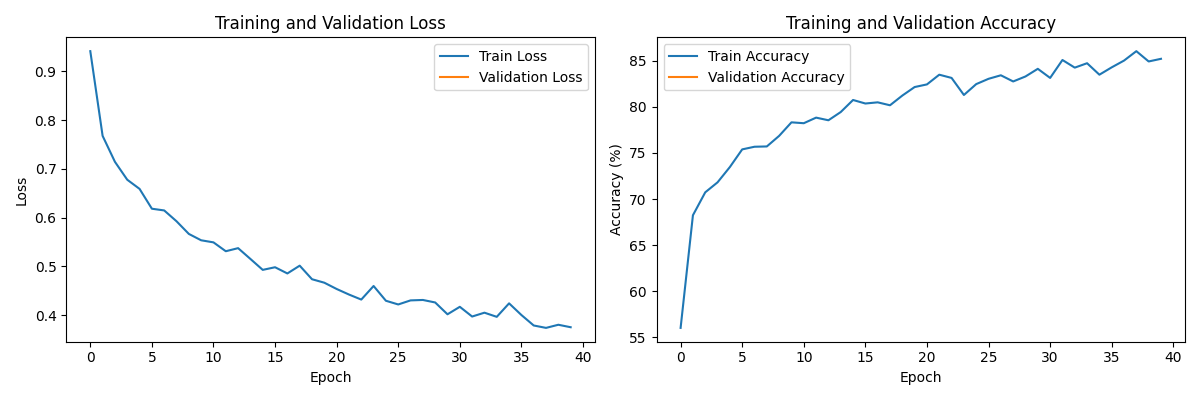
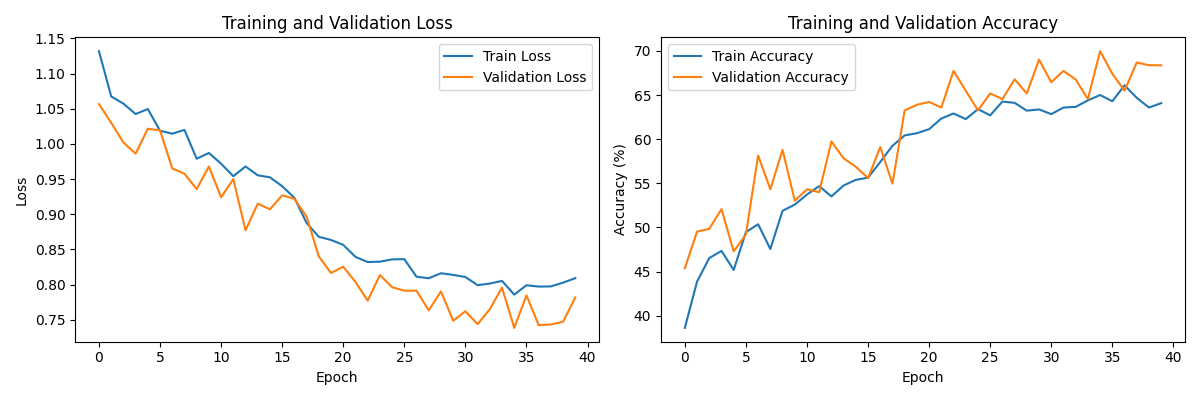
LR sceduler added
LRS added which has helped with over fitting a little, also re-added a validation set

diff --git a/code/fruit_class.py b/code/fruit_class.py
@@ -127,44 +127,71 @@ class FruitDataset(Dataset):
 
         return image, label  # Return image and label pair
 
-# Function to train the model (no validation)
-def train_model(model, train_loader, criterion, optimizer, num_epochs, device):
-    train_losses = []  # To store training loss for each epoch
-    train_accuracies = []  # To store training accuracy for each epoch
-    
+# Function to train the model
+def train_model(model, train_loader, val_loader, criterion, optimizer, scheduler, num_epochs, device):
+    train_losses = []
+    val_losses = []  # To store validation losses
+    train_accuracies = []
+    val_accuracies = []  # To store validation accuracies
+
     for epoch in range(num_epochs):
         # Training phase
-        model.train()  # Set model to training mode
+        model.train()
         train_loss = 0.0
         train_correct = 0
         train_total = 0
-        
+
         for images, labels in train_loader:
-            images, labels = images.to(device), labels.to(device)  # Move data to the GPU if available
-            
-            optimizer.zero_grad()  # Clear the previous gradients
-            outputs = model(images)  # Forward pass
-            loss = criterion(outputs, labels)  # Compute the loss
-            loss.backward()  # Backward pass to compute gradients
-            optimizer.step()  # Update model parameters
-            
-            train_loss += loss.item()  # Accumulate training loss
-            _, predicted = torch.max(outputs.data, 1)  # Get predicted class
-            train_total += labels.size(0)  # Total number of samples
-            train_correct += (predicted == labels).sum().item()  # Count correct predictions
-        
-        # Compute average training loss and accuracy for the epoch
-        train_loss = train_loss / len(train_loader)  # Average training loss
-        train_accuracy = 100 * train_correct / train_total  # Training accuracy as a percentage
+            images, labels = images.to(device), labels.to(device)
+
+            optimizer.zero_grad()
+            outputs = model(images)
+            loss = criterion(outputs, labels)
+            loss.backward()
+            optimizer.step()
+
+            train_loss += loss.item()
+            _, predicted = torch.max(outputs.data, 1)
+            train_total += labels.size(0)
+            train_correct += (predicted == labels).sum().item()
+
+        train_loss /= len(train_loader)
+        train_accuracy = 100 * train_correct / train_total
         train_losses.append(train_loss)
         train_accuracies.append(train_accuracy)
-        
+
+        # Validation phase
+        model.eval()
+        val_loss = 0.0
+        val_correct = 0
+        val_total = 0
+
+        with torch.no_grad():
+            for images, labels in val_loader:
+                images, labels = images.to(device), labels.to(device)
+                outputs = model(images)
+                loss = criterion(outputs, labels)
+
+                val_loss += loss.item()
+                _, predicted = torch.max(outputs.data, 1)
+                val_total += labels.size(0)
+                val_correct += (predicted == labels).sum().item()
+
+        val_loss /= len(val_loader)
+        val_accuracy = 100 * val_correct / val_total
+        val_losses.append(val_loss)
+        val_accuracies.append(val_accuracy)
+
+        # Call the learning rate scheduler
+        scheduler.step(val_loss)  # Scheduler adjusts learning rate based on validation loss
+
         # Print progress for each epoch
         print(f'Epoch [{epoch+1}/{num_epochs}]')
         print(f'Train Loss: {train_loss:.4f}, Train Accuracy: {train_accuracy:.2f}%')
+        print(f'Validation Loss: {val_loss:.4f}, Validation Accuracy: {val_accuracy:.2f}%')
         print('-' * 50)
-    
-    return train_losses, train_accuracies
+
+    return train_losses, val_losses, train_accuracies, val_accuracies
 
 
 # Evaluate the trained model on test data and generate performance metrics

diff --git a/code/train.py b/code/train.py
@@ -5,6 +5,8 @@ from torch.utils.data import DataLoader
 import os
 import torchvision.transforms as transforms
 from fruit_class import FruitClassifierCNN, FruitDataset, plot_training_history, train_model
+from torch.utils.data import random_split
+from torch.optim.lr_scheduler import ReduceLROnPlateau  # Import the scheduler
 
 def main():
     # Hyperparameters
@@ -12,6 +14,7 @@ def main():
     num_epochs = 40  # Number of training epochs
     batch_size = 32  # Batch size for training
     learning_rate = 0.001  # Learning rate for optimizer
+    val_split = 0.1  # Use 10% of the data for validation
 
     # GPU Setup
     if torch.cuda.is_available():
@@ -32,26 +35,35 @@ def main():
         transforms.Normalize((0.5, 0.5, 0.5), (0.5, 0.5, 0.5))  # Normalize RGB channels
     ])
 
-    # Load the full training dataset (no splitting)
-    train_data_path = os.path.join('..', 'split_data/train_data')  # Root directory for training dataset
-    train_dataset = FruitDataset(root_dir=train_data_path, transform=transform)
+    # Load the full dataset
+    train_data_path = os.path.join('..', 'split_data/train_data')  # Root directory for dataset
+    full_dataset = FruitDataset(root_dir=train_data_path, transform=transform)
 
-    # Create DataLoader for the entire training dataset
+    # Split dataset into training and validation sets
+    val_size = int(val_split * len(full_dataset))
+    train_size = len(full_dataset) - val_size
+    train_dataset, val_dataset = torch.utils.data.random_split(full_dataset, [train_size, val_size])
+
+    # Create DataLoader for training and validation sets
     train_loader = DataLoader(train_dataset, batch_size=batch_size, shuffle=True, num_workers=4, pin_memory=True)
+    val_loader = DataLoader(val_dataset, batch_size=batch_size, shuffle=False, num_workers=4, pin_memory=True)
 
     # Initialize model, loss function, and optimizer
     model = FruitClassifierCNN(num_classes=num_classes).to(device)
     criterion = nn.CrossEntropyLoss()
     optimizer = optim.Adam(model.parameters(), lr=learning_rate)
 
+    # Define the learning rate scheduler
+    scheduler = ReduceLROnPlateau(optimizer, mode='min', patience=3, factor=0.1, verbose=True)
+
     # Train the model
     print("\nStarting training...")
-    train_losses, train_accuracies = train_model(
-        model, train_loader, criterion, optimizer, num_epochs, device
+    train_losses, val_losses, train_accuracies, val_accuracies = train_model(
+        model, train_loader, val_loader, criterion, optimizer, scheduler, num_epochs, device
     )
 
-    # Plot training history (loss and accuracy)
-    plot_training_history(train_losses, [], train_accuracies, [])
+    # Plot training and validation history (loss and accuracy)
+    plot_training_history(train_losses, val_losses, train_accuracies, val_accuracies)
     print("\nTraining history plot saved as 'training_history.png'")
 
     # Save the trained model and optimizer state
